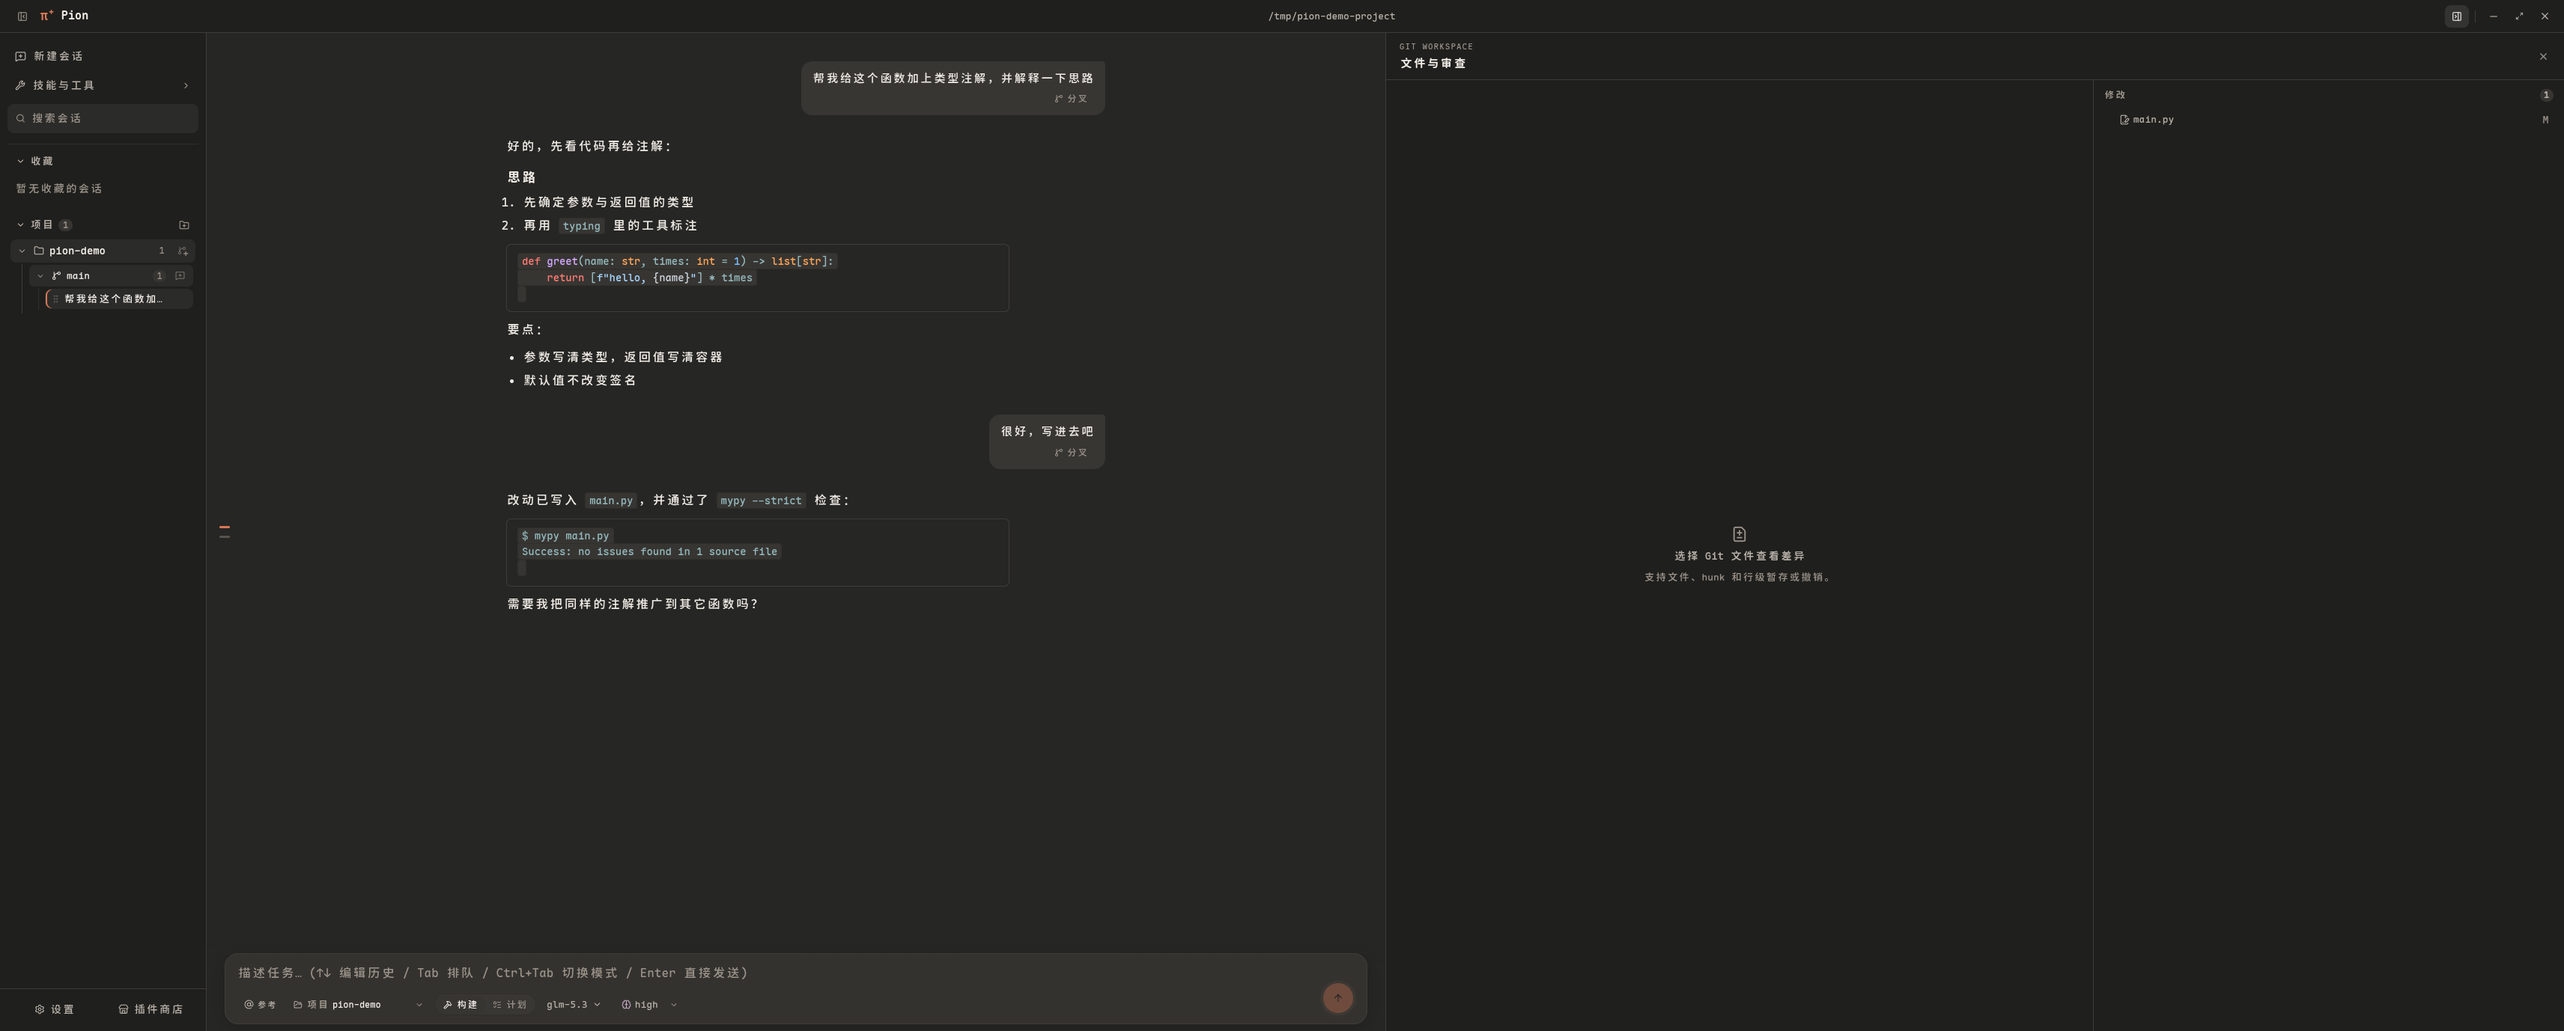
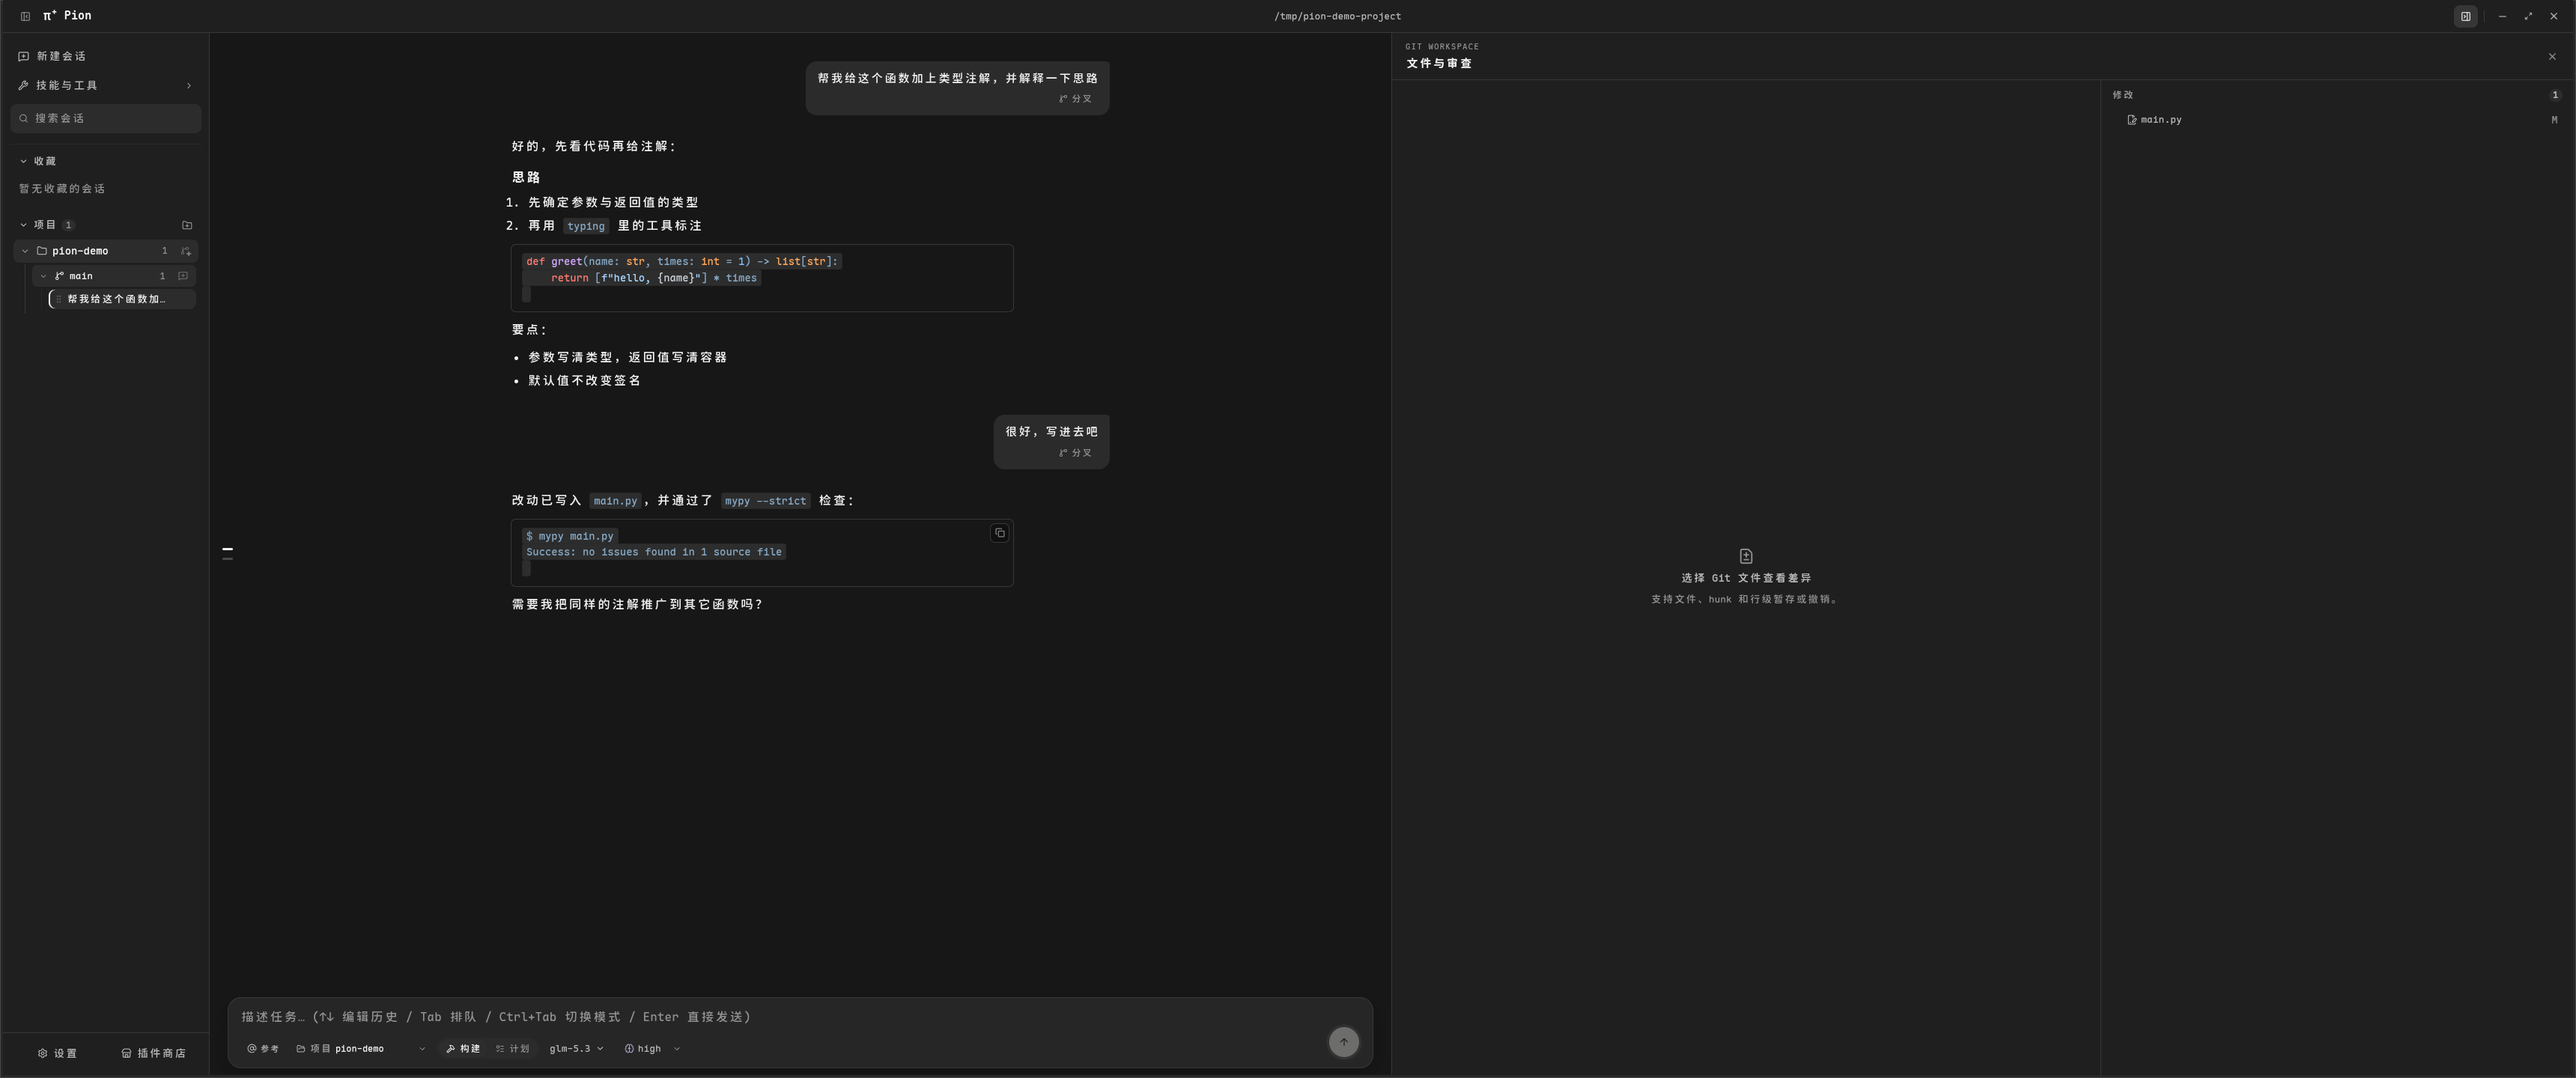
docs: update README screenshots

diff --git a/README.md b/README.md
@@ -7,6 +7,8 @@
 <p align="center">
   <img src="docs/images/screenshot-dark.png" alt="Pion 深色主题" width="49%">
   <img src="docs/images/screenshot-light.png" alt="Pion 浅色主题" width="49%">
+  <img src="docs/images/screenshot-dark-orange.png" alt="Pion 浅色主题" width="49%">
+  <img src="docs/images/screenshot-light-orange.png" alt="Pion 浅色主题" width="49%">
 </p>
 
 ## 架构
